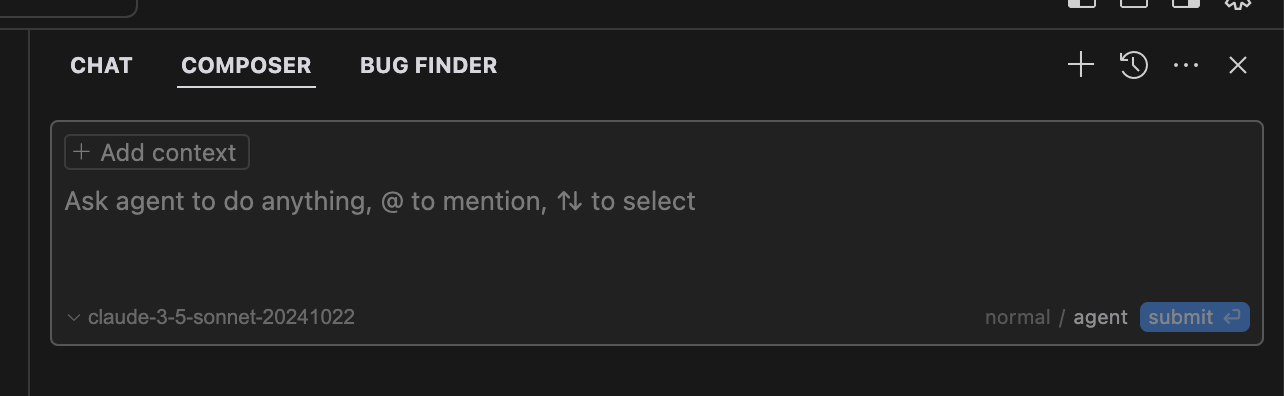
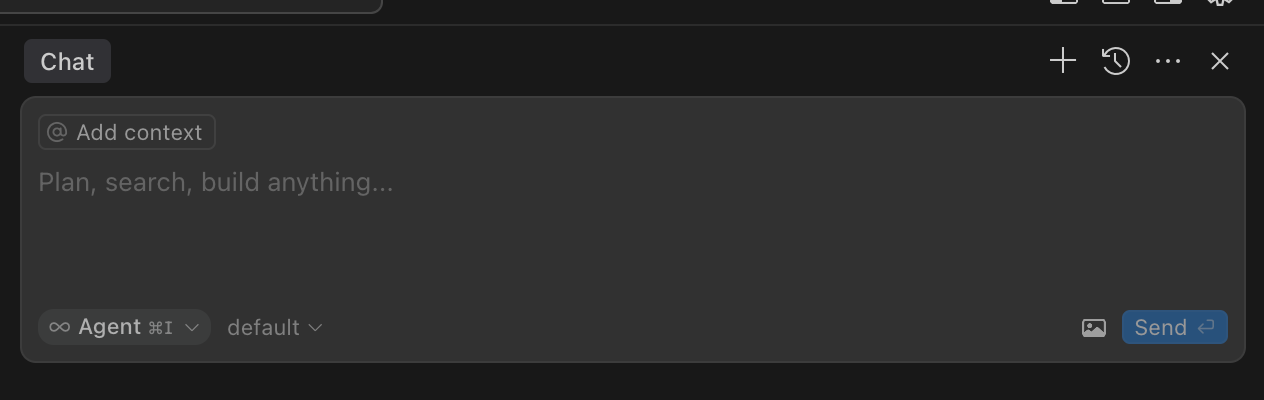
doc: update tutorial for new cursor UI (#114)
https://www.cursor.com/changelog/agent-is-ready-and-ui-refresh

Agent is ready: Agent is now the default mode, bringing a more powerful and unified AI experience. No more confusion between Chat, Composer, and Agent - just one smart interface that adapts to your needs.

diff --git a/step_by_step_tutorial.md b/step_by_step_tutorial.md
@@ -21,9 +21,9 @@ The interface consists of three main parts:
 
 ![Basic Interface](images/image10.png)
 
-Since we'll mainly use Cursor's Agentic AI features, I recommend making the composer sidebar wider.
+Since we'll mainly use Cursor's Agentic AI features, I recommend making the chat sidebar wider.
 
-Like VS Code, many of Cursor's features are accessed through commands in the command palette. You can press F1 to bring up the command palette. For example, if you can't remember how to bring up the composer panel, you can simply type "composer" in the command palette. It will show you options, and you can click the appropriate one to bring up the composer again. Commands also show keyboard shortcuts on the right, which you can memorize for faster access in the future.
+Like VS Code, many of Cursor's features are accessed through commands in the command palette. You can press F1 to bring up the command palette. For example, if you can't remember how to bring up the chat panel, you can simply type "chat" in the command palette. It will show you options, and you can click the appropriate one to bring up the chat again. Commands also show keyboard shortcuts on the right, which you can memorize for faster access in the future.
 
 ![Command Palette](images/image4.png)
 
@@ -31,15 +31,11 @@ Like VS Code, many of Cursor's features are accessed through commands in the com
 
 ## Important Initial Settings
 
-For our use of Cursor's Agentic AI features, there are two crucial configurations to note:
+Cursor now provides a unified AI experience with Agent mode as the default. This means you no longer need to worry about switching between different modes like Chat, Composer, or Agent - there's just one smart interface that adapts to your needs.
 
-1. At the top of the chat panel, there are three tabs: Chat, Composer, and Bug Finder. We'll primarily use the Composer tab. Be careful not to switch to the Chat tab, which uses the old interaction experience.
+In the bottom left corner of the chat panel, you can specify which AI model you want to use. Currently, Cursor supports several AI models including Claude, GPT-4o, and o3-mini. We generally recommend using Claude as it performs best in various scenarios, but feel free to experiment with other models.
 
-2. In the bottom right corner of the Composer panel, there's a toggle switch between "Normal" and "Agent". Make sure to switch it to "Agent" mode.
-
-Additionally, in the bottom left corner of the chat panel, you can specify which AI model you want to use. Currently, Cursor's Agent mode supports three AI models: Claude, GPT-4o, and o3-mini. We generally recommend using Claude as it performs best in various scenarios, but feel free to experiment with other models.
-
-Your configuration should look like this (note the Composer tab in the top left, Agent mode in the bottom right, and Claude in the bottom left):
+Your configuration should look like this (note Claude in the bottom left):
 
 ![Configuration Settings](images/image8.png)
 
@@ -133,8 +129,6 @@ Next, you can use `cursor my-cursor-project` in the command line to open your ne
 Using this enhanced Cursor project is similar to using a regular Cursor project, but now we have access to additional tools to better complete our tasks. For example, we can say "search recent news on OpenAI" in the prompt.
 
 ![Enhanced Tools Example](images/image6.png)
-
-Remember to ensure you're in Composer and Agent mode before clicking "submit".
 
 In this newly configured workspace, you'll notice Cursor has gained some additional capabilities. For instance, it will first edit our `.cursorrules` file for planning, then call our system search tools, and finally browse more web pages to get the latest information. 
 
